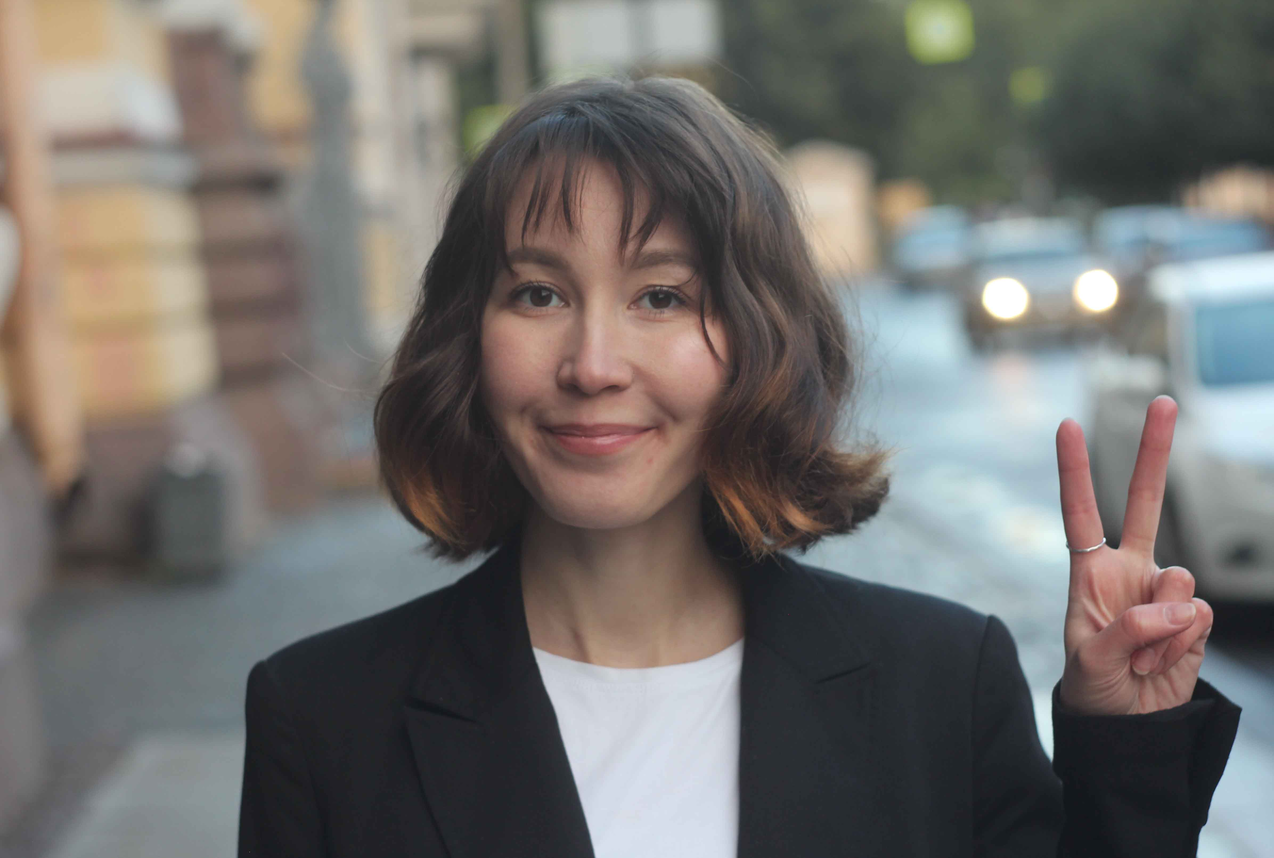
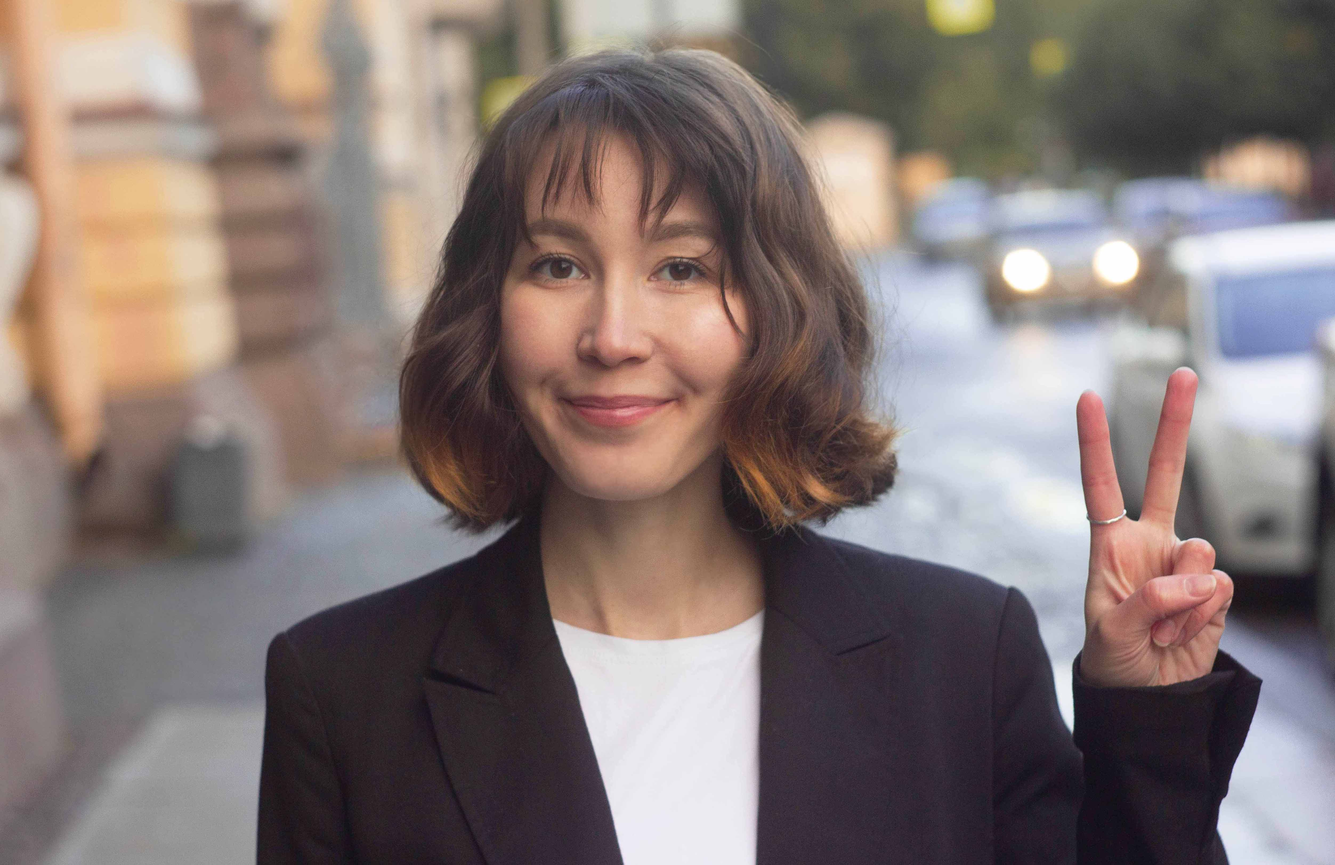
5

diff --git a/style.css b/style.css
@@ -18,6 +18,8 @@ body {
     --font-color: #323232;
 }
 
+.foto {}
+
 .head {
     display: flex;
     flex-direction: row;
@@ -129,7 +131,7 @@ a.portrait:hover {
 .projects-list li {
     display: flex;
     padding: 1em 0;
-    font-size: 2em;
+    font-size: 1.2em;
     justify-content: right;
 }
 
@@ -206,8 +208,31 @@ section.pad2 {
     .about-me-container {
         flex-direction: column;
     }
+    .head {
+        flex-direction: column;
+    }
+    a.portrait {
+        background-image: url("3.jpg");
+        display: block;
+        width: 100%;
+        height: 30em;
+        flex-shrink: 0;
+        background-size: cover;
+        margin-bottom: 3em;
+        margin-top: 2em;
+    }
+    a.portrait:hover {
+        background-image: url("4.jpg");
+    }
+    .name {
+        font-size: 1.5em;
+    }
 }
 
 .end {
     margin-top: 10em;
+}
+
+.mail {
+    margin-bottom: 5em;
 }

diff --git a/index.html b/index.html
@@ -4,7 +4,7 @@
 <head>
     <meta charset="UTF-8" />
     <meta name="viewport" content="width=device-width, initial-scale=1.0" />
-    <title>Elli</title>
+    <title>Elli-Ma</title>
     <link rel="stylesheet" href="./style.css" />
 
 </head>
@@ -96,7 +96,7 @@
     <hr class="end">
 
     <footer>
-        elli9225@gmail.com
+        <a href="mailto: elli9225@gmail.com" class="mail">elli9225@gmail.com</a>
 
     </footer>
     <script src="script.js">
